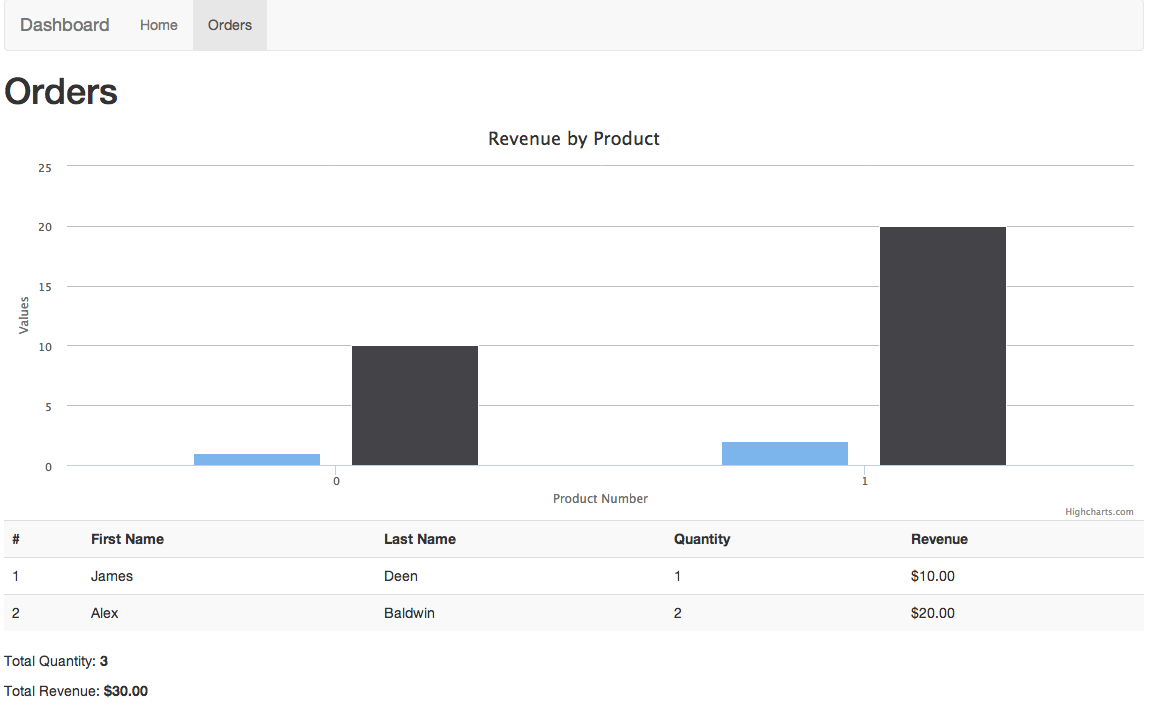
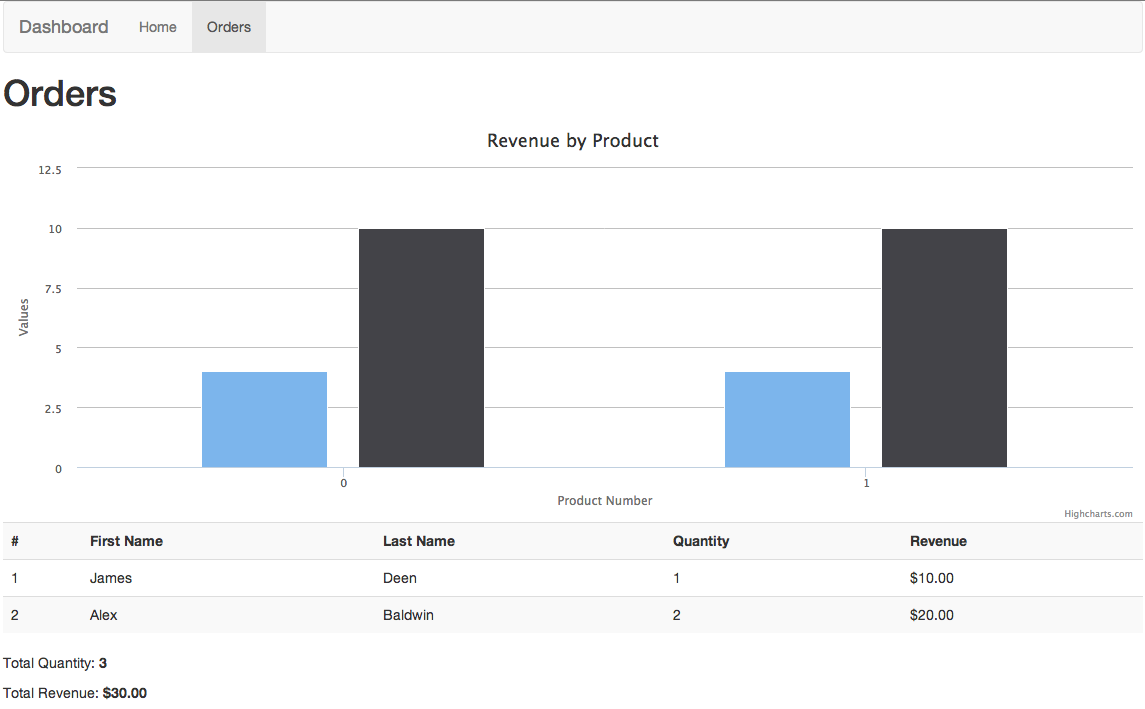
First draft of ember rails dashboard part three

diff --git a/_drafts/creating-a-metrics-dashboard-with-ember-and-rails-part-three.md b/_drafts/creating-a-metrics-dashboard-with-ember-and-rails-part-three.md
@@ -1,7 +1,7 @@
 ---
 layout: post
 title:  "Creating A Metrics Dashboard With Ember.js, Bootstrap, and Rails - Part 3"
-date: 2014-08-25 09:00:00
+date:
 categories: rails ember.js metrics
 ---
 
@@ -104,10 +104,10 @@ Dashboard.ColumnChartComponent = Ember.Component.extend
       },
       series: [{
         name: 'Quantity',
-        data: [1, 2]
+        data: [4, 4]
       }, {
         name: 'Revenue',
-        data: [10.0, 20.0]
+        data: [10.0, 10.0]
       }]
     })
 
@@ -119,3 +119,101 @@ Dashboard.ColumnChartComponent = Ember.Component.extend
 Then when you reload the page it should look like this:
 
 ![Orders Static Column Chart](/assets/creating-a-metrics-dashboard-with-ember-and-rails-part-three/orders-static-column-chart.png)
+
+
+Binding Data To The Ember Component
+-----------------------------------
+
+The chart we have is currently always showing the same series because we hard coded it in the component. Let's now make
+this dynamic by adding the data in the route and using data bindings.
+
+First let's update the data in our orders route to include a product id.
+
+```coffeescript
+# app/assets/javascripts/routes/orders_route.js.coffee
+Dashboard.OrdersRoute = Ember.Route.extend({
+  model: ->
+    [
+      {
+        id: 1,
+        firstName: 'James',
+        lastName: 'Deen',
+        quantity: 1,
+        revenue: '10.00',
+        productId: 0,
+      },
+      {
+        id: 2,
+        firstName: 'Alex',
+        lastName: 'Baldwin',
+        quantity: 2,
+        revenue: '20.00',
+        productId: 1,
+      }
+    ]
+})
+
+```
+
+And then we can build our chart series in the orders controller (very naive example):
+
+```coffeescript
+Dashboard.OrdersController = Ember.ArrayController.extend({
+
+  ...
+
+  chartSeries: (->
+    revenues = @map((order)->
+      parseFloat(order.revenue)
+    )
+    quantities = @mapBy('quantity')
+
+    [
+      {
+        name: 'Quantity',
+        data: quantities
+      },
+      {
+        name: 'Revenue',
+        data: revenues
+      }
+    ]
+  ).property('@each')
+
+})
+
+
+```
+
+We can then bind `chartSeries` in `orders.hbs`:
+
+```html
+<h1>Orders</h1>
+
+{{column-chart chartId='revenue-by-product' series=chartSeries}}
+
+<table class='table table-striped'>
+```
+
+And finally use series in our chart component:
+
+```coffeescript
+# app/assets/javascripts/components/column-chart.js.coffee
+...
+didInsertElement: ->
+  $("##{@chartId}").highcharts({
+    chart: { type: 'column' },
+    title: { text: 'Revenue by Product' },
+    legend: { enabled: false },
+    xAxis: {
+      title: {
+        text: 'Product Number'
+      }
+    },
+    series: @series
+  })
+...
+```
+
+We then end up with our final dynamic chart rendered by Ember:
+![Orders Static Column Chart](/assets/creating-a-metrics-dashboard-with-ember-and-rails-part-three/orders-dynamic-column-chart.png)

diff --git a/_drafts/getting-started-with-aws-data-pipeline.md b/_drafts/getting-started-with-aws-data-pipeline.md
@@ -1,6 +1,6 @@
 ---
 layout: post
 title:  "Getting Started With AWS Data Pipeline"
-date: 2014-08-25 09:00:00
+date:
 categories:
 ---

diff --git a/_drafts/getting-started-with-prediction-io.md b/_drafts/getting-started-with-prediction-io.md
@@ -1,6 +1,6 @@
 ---
 layout: post
 title:  "Getting Started With PredictionIO"
-date: 2014-08-25 09:00:00
+date:
 categories:
 ---
